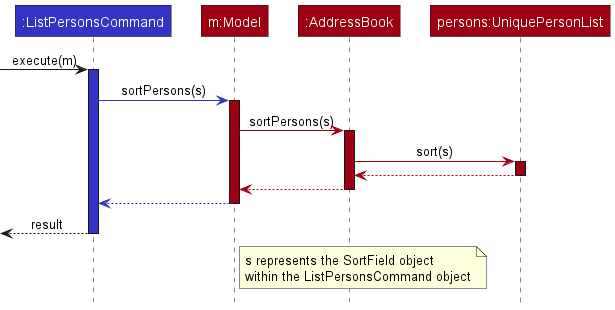
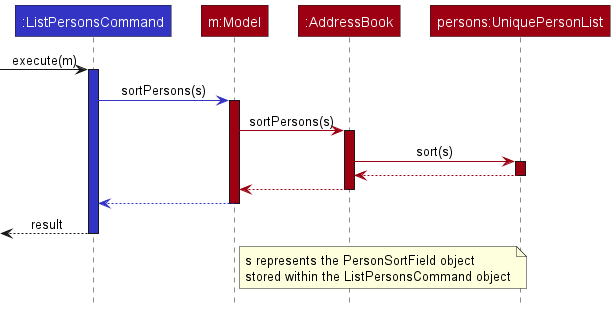
Update sort persons section in DG

Changed region(s): [[0.4016, 0.7839, 0.865, 0.9581]]

diff --git a/docs/DeveloperGuide.md b/docs/DeveloperGuide.md
@@ -159,16 +159,16 @@ This section describes some noteworthy details on how certain features are imple
 
 The sort persons feature allows the user to sort persons by their name, date of birth or gender.
 
-The field to sort persons by is encapsulated within the `SortField` class. `SortField` stores the sort field enumeration (`SortFieldType`) as well as the `Comparator` object that defines the sorting logic.
+The field to sort persons by is encapsulated within the `PersonSortField` class. `PersonSortField` stores the sort field enumeration (`PersonSortFieldType`) as well as the `Comparator` object that defines the sorting logic.
 
-The following class diagram shows how the `SortField` class integrates with the other components:
+The following class diagram shows how the `PersonSortField` class integrates with the other components:
 
-![SortFieldClassDiagram](images/SortFieldClassDiagram.png)
+![PersonSortFieldClassDiagram](images/PersonSortFieldClassDiagram.png)
 <br><br>
 
 Sorting is performed as part of `listPersonsCommand#execute()`. The sorting operation is exposed in the `Model` interface as `Model#sortPersons()` which calls `AddressBook#sortPersons()` which in turn calls `UniquePersonList#sort()` to sort the underlying `ObservableList<Person>`.
 
-The following sequence diagram illustrates the relevant sorting method calls for the command `listPersons s/n` with a `SortField` object `s`:
+The following sequence diagram illustrates the relevant sorting method calls for the command `listPersons s/n` with a `PersonSortField` object `s`:
 
 ![SortPersonsSequenceDiagram](images/SortPersonsSequenceDiagram.png)
 
